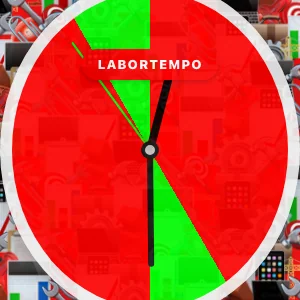
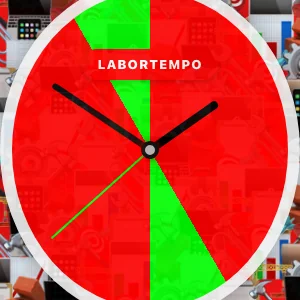
x

diff --git a/scripts/screencaps/capture.js b/scripts/screencaps/capture.js
@@ -1,0 +1,144 @@
+#!/usr/bin/env node
+import fs from 'fs';
+import path from 'path';
+import { chromium } from 'playwright';
+import sharp from 'sharp';
+import { fileURLToPath } from 'url';
+
+const __filename = fileURLToPath(import.meta.url);
+const __dirname = path.dirname(__filename);
+
+const OUTPUT_DIR = path.join(__dirname, '../../src/assets/thumbnails');
+const PAGES_DIR = path.join(__dirname, '../../src/pages');
+
+// Host the capture will target (port 5173 as requested)
+const CLOCK_BASE_URL = process.env.CLOCK_BASE_URL || 'http://localhost:5173';
+
+const VIEWPORT_SIZE = { width: 300, height: 300 };
+const PAGE_WAIT_MS = 2000;
+
+function getAvailableDates() {
+  const dates = [];
+
+  const walk = (dir) => {
+    if (!fs.existsSync(dir)) return;
+    const entries = fs.readdirSync(dir);
+
+    for (const entry of entries) {
+      const fullPath = path.join(dir, entry);
+      if (!fs.statSync(fullPath).isDirectory()) continue;
+
+      // Matches YY-MM-DD
+      if (/^\d{2}-\d{2}-\d{2}$/.test(entry)) dates.push(entry);
+      walk(fullPath);
+    }
+  };
+
+  walk(PAGES_DIR);
+  return dates.sort();
+}
+
+function parseArgs(argv) {
+  const availableDates = getAvailableDates();
+  const modeOrDate = argv[0];
+
+  if (!modeOrDate) return { mode: undefined, targetDates: [] };
+
+  if (modeOrDate === 'today') {
+    const today = new Date().toISOString().slice(2, 10);
+    return { mode: 'today', targetDates: [today] };
+  }
+
+  if (modeOrDate === 'all') return { mode: 'all', targetDates: availableDates };
+
+  if (modeOrDate === 'range') {
+    const start = argv[1];
+    const end = argv[2];
+    if (!start || !end) return { mode: 'range', targetDates: [] };
+    if (!/^\d{2}-\d{2}-\d{2}$/.test(start) || !/^\d{2}-\d{2}-\d{2}$/.test(end)) {
+      return { mode: 'range', targetDates: [] };
+    }
+    return {
+      mode: 'range',
+      targetDates: availableDates.filter((d) => d >= start && d <= end),
+    };
+  }
+
+  if (/^\d{2}-\d{2}-\d{2}$/.test(modeOrDate)) {
+    return { mode: 'date', targetDates: [modeOrDate] };
+  }
+
+  return { mode: modeOrDate, targetDates: [] };
+}
+
+async function captureOne({ browser, date }) {
+  const page = await browser.newPage();
+  await page.setViewportSize(VIEWPORT_SIZE);
+
+  const url = `${CLOCK_BASE_URL}/${date}`;
+  const outputPath = path.join(OUTPUT_DIR, `${date}.webp`);
+
+  const tmpDir = path.join(__dirname, '.tmp');
+  if (!fs.existsSync(tmpDir)) fs.mkdirSync(tmpDir, { recursive: true });
+  const tmpPng = path.join(tmpDir, `raw-${date}.png`);
+
+  try {
+    console.log(`📸 Capturing ${date} -> ${url}`);
+    await page.goto(url, { waitUntil: 'networkidle', timeout: 30000 });
+    await page.waitForTimeout(PAGE_WAIT_MS);
+
+    // Target the root element to ensure we capture the component as a square,
+    // respecting its own boundaries without clipping the viewport.
+    const rootElement = await page.locator('#root');
+    await rootElement.screenshot({ path: tmpPng });
+
+    await sharp(tmpPng)
+      .resize(VIEWPORT_SIZE.width, VIEWPORT_SIZE.height, {
+        fit: 'cover',
+        position: 'center',
+      })
+      .webp({ quality: 85, effort: 6 })
+      .toFile(outputPath);
+
+    console.log(`✅ Saved: ${path.relative(process.cwd(), outputPath)}`);
+  } finally {
+    await page.close();
+    try {
+      if (fs.existsSync(tmpPng)) fs.unlinkSync(tmpPng);
+    } catch {
+      // ignore
+    }
+  }
+}
+
+async function run() {
+  if (!fs.existsSync(OUTPUT_DIR)) fs.mkdirSync(OUTPUT_DIR, { recursive: true });
+
+  const args = process.argv.slice(2);
+  const { targetDates } = parseArgs(args);
+
+  if (!targetDates.length) {
+    console.log(
+      `\nUsage:\n  node scripts/screencaps/capture today\n  node scripts/screencaps/capture all\n  node scripts/screencaps/capture YY-MM-DD\n  node scripts/screencaps/capture range YY-MM-DD YY-MM-DD\n\nEnvironment:\n  CLOCK_BASE_URL=${CLOCK_BASE_URL}`,
+    );
+    process.exit(0);
+  }
+
+  console.log(`Starting capture for ${targetDates.length} clock(s) using BASE_URL=${CLOCK_BASE_URL}`);
+
+  const browser = await chromium.launch({ args: ['--hide-scrollbars', '--disable-web-security'] });
+
+  const batchSize = 2;
+  for (let i = 0; i < targetDates.length; i += batchSize) {
+    const batch = targetDates.slice(i, i + batchSize);
+    await Promise.all(batch.map((date) => captureOne({ browser, date })));
+  }
+
+  await browser.close();
+  console.log('✨ Capture process complete.');
+}
+
+run().catch((err) => {
+  console.error('Fatal error:', err);
+  process.exit(1);
+});

diff --git a/src/pages/2026/26-07/26-07-16/Clock.tsx b/src/pages/2026/26-07/26-07-16/Clock.tsx
@@ -180,7 +180,7 @@ const styles: { [key: string]: React.CSSProperties } = {
     width: 340,
     height: 340,
     opacity: 0.9,
-    border: '12px solid #f0f0f0',
+    border: '6px solid #111010',
     borderRadius: '50%',
     backgroundColor: '#ffffff',
     boxShadow: '0 0 30px rgba(0,0,0,0.4), inset 0 0 25px rgba(0,0,0,0.2)',
@@ -207,9 +207,9 @@ const styles: { [key: string]: React.CSSProperties } = {
     fontFamily: 'system-ui, sans-serif',
     fontWeight: '900',
     fontSize: '13px',
-    letterSpacing: '1px',
+    letterSpacing: '1.5px',
     zIndex: 5,
-    boxShadow: '0 2px 4px rgba(0,0,0,0.2)',
+    boxShadow: '0 2px 4px rgba(0, 0, 0, 0.69)',
     transition: 'background-color 0.2s, color 0.2s, top 0.2s, bottom 0.2s',
   },
   hand: {
@@ -220,20 +220,20 @@ const styles: { [key: string]: React.CSSProperties } = {
     borderRadius: '4px',
   },
   hourHand: {
-    width: 8,
-    height: '26%',
+    width: 6,
+    height: '29%',
     backgroundColor: '#000000',
     marginLeft: -4,
   },
   minuteHand: {
     width: 6,
-    height: '37%',
+    height: '48%',
     backgroundColor: '#111111',
     marginLeft: -3,
   },
   secondHand: {
     width: 2,
-    height: '42%',
+    height: '342%',
     marginLeft: -1,
     transition: 'background-color 0.2s linear', // Added a smooth transition for the color flip
   },
